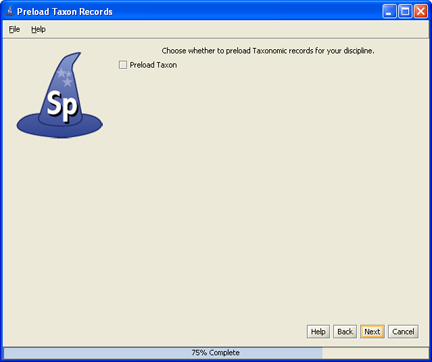
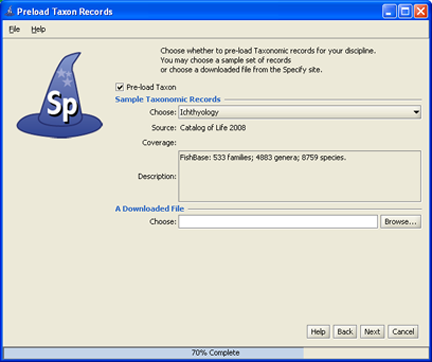
git-svn-id: https://svn.code.sf.net/p/specify/code/trunk/Specify@6932 ce9bf4bf-376f-1848-a496-a1c9fe3b1a39

diff --git a/help/SpecifyHelp/Security/Wizard.html b/help/SpecifyHelp/Security/Wizard.html
@@ -31,7 +31,7 @@
 <p><a name="mysql_username" id="mysql_username"></a></p>
 <p align="center"><img src="../../images/window1.png" width="432" height="362" /></p>
 <p align="center"><span class="imgcaption">Enter MySQL IT Username and Password</span></p>
-<p>The <strong>IT Username</strong> and <strong>IT Password</strong> must gain access to an account with full administrator privileges in the MySQL database manager. This account will be used by the Specify Setup Wizard to create your Specify database and a Specify Administrative User account(in the next window) in MySQL. If you do not know the IT admininstrator (&quot;root&quot;) account username and password or do not have a MySQL installation, exit now. You can not go further without these.</p>
+<p>The <strong>IT Username</strong> and <strong>IT Password</strong> must gain access to an account with full administrator privileges in the MySQL database manager. This account will be used by the Specify Setup Wizard to create your Specify database and a Specify Administrative User account(in the next window) in MySQL. If you do not know the IT administrator (&quot;root&quot;) account username and password or do not have a MySQL installation, exit now. You can not go further without these.</p>
 <p>The <strong>Database Name</strong> will be used to name the database that the Setup Wizard is about to create. You are creating this name as you type it into the window. Once you name the database make sure to document it so you can reference if you need it at a later date.</p>
 <p>The <strong>Host Name</strong> is the name of the computer that is running MySQL. This is either an IP Address  or a DNS (Domain Name Service) name. When running MySQL on your local machine this is almost always 'localhost' or '127.0.0.1'.</p>
 <p>When you click the <em>Next</em> button Specify will connect to MySQL using the information you have entered and then create your Specify database. If Specify can not connect to MySQL and build the database for any reason a message will display. To proceed in the Wizard you will need to verify that the information entered and MySQL setup are correct.</p>
@@ -57,7 +57,7 @@
 <p align="left">The Specify data management levels mimic  the common levels of hierarchy within institutions. Access to information and Specify tools are then set at the various levels both within the application and through the User Permissions. </p>
 <p align="left">The Setup Wizard creates a single entry for each level of the hierarchy (Institution, Division, Discipline and Collection).  This is the first step in that process. Each of the screens for creating these levels must be completed before the <em>Next</em> button will become enabled.</p>
 <p align="left">The <strong>Name</strong> should be the formal name for your institution. It is a field within the Specify database, is displayed on the Institution form, it can be queried and used in reports. </p>
-<p align="left">The <strong>Code</strong> is typically an acronym, codon, abbreviation or short name for your institution (not your collection), if you don't know of one, put in a placeholder, this can be edited at at a later date. Instituation codes are often required for web services such as DiGIR.</p>
+<p align="left">The <strong>Code</strong> is typically an acronym, codon, abbreviation or short name for your institution (not your collection), if you don't know of one, put in a placeholder, this can be edited at at a later date. Institution codes are often required for web services such as DiGIR.</p>
 <p align="left">The <strong>Institution Address</strong> information is also added to fields within the Specify database and displayed on the Institution form and can be queried and used in reports.</p>
 <p align="left"><a name="choose_accession_level" id="choose_accession_level"></a></p>
 <p align="center"><img src="../../images/window4.png" width="432" height="362" /></p>
@@ -71,7 +71,7 @@
 <p align="center" class="imgcaption">Create Accession Number Format</p>
 <p align="left">Accession Numbers may require a format or may simply use a number. Choose None to leave the Accession Number as a text field on the Accession form. Accession Number formats are not editable once data has been entered in the database.</p>
 <p align="left">Several formats are offered in the drop-down menu list:</p>
-<p align="left"><strong>AccessionNumber</strong> (2009-AA-###) The year will appear automatically in the first section (2009) of the format, and can also be manually edited. The 'AA' section of the format is alphanumeric and accepts both characters <em>a</em> through <em>z</em> and numbers.  The ### section of the format is a number that is automatically incremented when Auto Numbering is turned on in Specify and manually entered when Auto Numbering is turned off. This format offers two alphanumeric characters and three incremented numbers. </p>
+<p align="left"><strong>Accession Number</strong> (2009-AA-###) The year will appear automatically in the first section (2009) of the format, and can also be manually edited. The 'AA' section of the format is alphanumeric and accepts both characters <em>a</em> through <em>z</em> and numbers.  The ### section of the format is a number that is automatically incremented when Auto Numbering is turned on in Specify and manually entered when Auto Numbering is turned off. This format offers two alphanumeric characters and three incremented numbers. </p>
 <p align="left"><strong>AccessionNumberByYear</strong> (2009-AA-AAA) The year will appear automatically in the first section (2009) of the format, and can also be manually edited. The 'A' sections of the format are alphanumeric and accept both characters <em>a</em> through <em>z</em> and numbers. This format offers two alphanumeric sections, the first is two characters in length and the second is three characters in length.</p>
 <p align="left"><strong>AccessionStringFormatter</strong> (AAAAAA) This is a single alphanumeric format that accepts characters <em>a</em> through <em>z</em> and numbers. The Accession number would be seven characters in length.</p>
 <ul>
@@ -157,7 +157,9 @@
 <p align="center" class="imgcaption">Preload Taxon Records/Nodes</p>
 <p>The Specify Wizard not only defines the Taxon tree but also allows loading of an authority file for your Discipline. <span class="style2">Authority files were created using data from the </span> Catalog of Life Project for each predefined discipline within Specify. If you choose to load the data into your tree the Taxon tree  will be populated with hundreds of taxon nodes and all associated data. Then, when adding Collection Objects into your database you can simply choose a taxa from the Taxon field rather than adding each individually as needed.</p>
 <p>Please note that loading the Taxon tree will also affect the tree definition. If you load the provided Taxon authority file for your discipline the accompanying tree definition may include ranks that were not defined by you in the previous window, but are necessary to include all the predefined Taxon information.</p>
-<p>Additional discipline-specific trees can be loaded from within Specify at the time new Disciplines are created.</p>
+<p>Additional discipline-specific trees can be loaded from within Specify at the time new disciplines are created.</p>
+<p>Click the <em>Choose</em> button for a list of taxon files for the discipline you are creating. Not all disciplines offer more than one taxon file. Once the taxon file is chosen information will display in the <strong>Source</strong>, <strong>Coverage</strong> and <strong>Description</strong> fields for that file. </p>
+<p>The<strong> Downloadable File</strong> section in this window allows you to choose taxon files from your hard drive. The Setup Wizard can only install files that were downloaded from the Specify website. The Specify team is currently in the process of creating these files.</p>
 <p><a name="configure_geography_tree" id="configure_geography_tree"></a></p>
 <p align="center"><img src="../../images/window12.png" width="432" height="362" /></p>
 <p align="center" class="imgcaption">Configure and Load Geography Tree</p>
